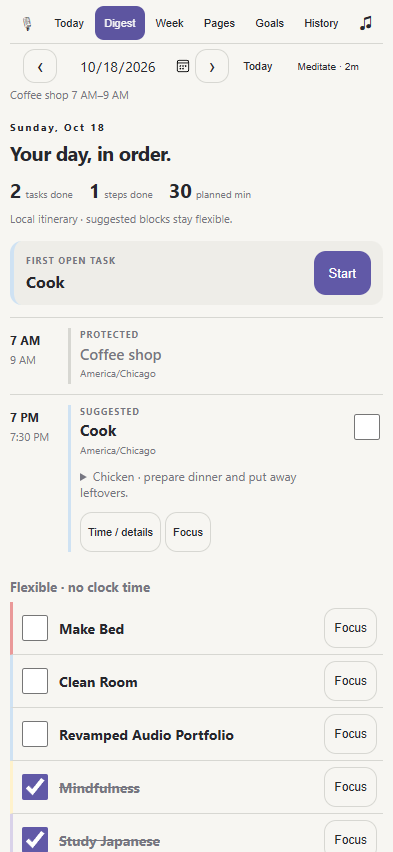
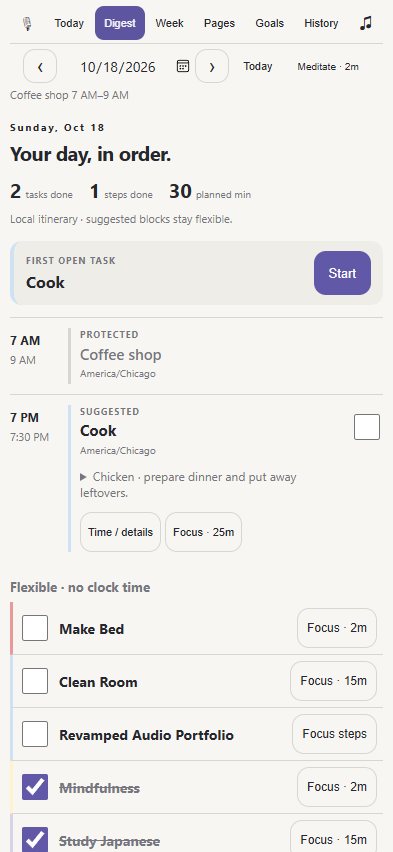
Support dated focus targets for graduated daily habits

diff --git a/src/surface.ts b/src/surface.ts
@@ -3,6 +3,7 @@ import { addRoadmap } from './roadmaps';
 import { finishFocus, cancelTimer } from './model';
 import { itinerary } from './digest';
 import { Feedback, FeedbackSettings, DEFAULT_FEEDBACK } from './feedback';
+import { focusMinutes } from './model';
 
 export interface Host {
   read():Promise<string>;
@@ -61,7 +62,7 @@ export class Surface {
     for(const tab of ['Today','Digest','Week','Pages','Goals','History'] as Tab[]){const btn=this.button(nav,tab,()=>{this.tab=tab;this.render();},tab===this.tab?'is-active':'');btn.setAttribute('aria-current',String(tab===this.tab));}const sound=this.button(nav,this.feedbackSettings.sound?'♫':'♫̸',()=>this.setFeedback({sound:!this.feedbackSettings.sound}),'cs-sound-toggle',this.feedbackSettings.sound?'Mute completion sounds':'Enable completion sounds');sound.setAttribute('aria-pressed',String(this.feedbackSettings.sound));
     const controls=this.el('div',this.root,'cs-controls');this.button(controls,'‹',()=>{this.day=addDays(this.day,-1);this.render();},'cs-icon','Previous day');
     const date=this.el('input',controls,'cs-date');date.type='date';date.value=this.day;date.setAttribute('aria-label','Selected date');date.addEventListener('change',()=>{if(date.value){this.day=date.value;this.render();}});
-    this.button(controls,'›',()=>{this.day=addDays(this.day,1);this.render();},'cs-icon','Next day');this.button(controls,'Today',()=>{this.day=localDay();this.render();},'cs-link');const meditation=b.tasks.find(t=>t.id==='mindfulness');if(meditation)this.button(controls,meditation.minutes?`Meditate · ${meditation.minutes}m`:'Meditate',()=>this.beginFocus(()=>this.host.start(meditation,this.day)),'cs-link cs-meditate','Start meditation mode');
+    this.button(controls,'›',()=>{this.day=addDays(this.day,1);this.render();},'cs-icon','Next day');this.button(controls,'Today',()=>{this.day=localDay();this.render();},'cs-link');const meditation=b.tasks.find(t=>t.id==='mindfulness');if(meditation){const minutes=focusMinutes(b,meditation,this.day);this.button(controls,minutes?`Meditate · ${minutes}m`:'Meditate',()=>this.beginFocus(()=>this.host.start(meditation,this.day)),'cs-link cs-meditate','Start meditation mode');}
     this.el('p',this.root,'cs-muted cs-sprint',`Sprint ${b.start} → ${b.end}`);
     const fixed=availabilityFor(b,this.day);if(fixed.length)this.el('p',this.root,'cs-day-availability',fixed.map(block=>`${block.label} ${clockLabel(block.start)}–${clockLabel(block.end)}`).join(' · '));
     if(this.effectsOpen)this.renderFeedbackSettings();
@@ -76,6 +77,7 @@ export class Surface {
   private async beginFocus(start:()=>Promise<void>):Promise<void>{this.returnTab=this.tab==='Digest'?'Digest':'Today';this.prepareFocusCues();if(this.board?.timer){this.focusMode=true;await this.refresh();return;}await start();this.focusMode=true;await this.refresh();}
   private async endFocus(finish:boolean):Promise<void>{const board=this.board!;const timer=board.timer;if(!timer)return;const queue=focusQueue(board,timer);const step=queue[Math.min(timer.cursor,Math.max(0,queue.length-1))];if(finish&&!step)throw new Error('This queue is empty. Cancel the timer to return to the list.');await this.host.change(text=>finish?finishFocus(text,timer.id,step.id,this.focusNotes.get(timer.id)||''):cancelTimer(text,timer.id));this.focusNotes.delete(timer.id);this.focusMode=false;this.roadmapSurface=null;this.activitySurface=null;this.tab=this.returnTab;this.page='All';this.filter='';this.day=timer.date;await this.refresh();if(finish)this.feedback.show(step.done?'Focus session saved':`${step.title} ✓`,this.colorHex(board.tasks.find(task=>task.id===step.taskId)!),step.done?'saved':'complete');}
   private colorHex(task:Task):string{return COLORS.find(color=>color.id===task.color)?.hex||'#8a59ed';}
+  private focusLabel(task:Task,day:string):string{if(taskSubtasks(this.board!,task.id,day).length)return 'Focus steps';const minutes=focusMinutes(this.board!,task,day);return minutes?`Focus · ${minutes}m`:'Focus';}
   private async checkTask(task:Task,day:string,done:boolean):Promise<void>{const wasDone=!!entryFor(this.board!,task.id,day)?.done;this.feedback.prepare();await this.host.check(task,day,done);if(done&&!wasDone)this.feedback.show(`${task.title} ✓`,this.colorHex(task));}
   private async setFeedback(patch:Partial<FeedbackSettings>):Promise<void>{const next={...this.feedbackSettings,...patch};await this.host.saveFeedback?.(next);this.feedbackSettings=next;this.render();}
   private renderFeedbackSettings():void{const panel=this.el('section',this.root,'cs-effects-settings');this.el('h3',panel,'','Feedback');for(const [key,label] of [['sound','Completion sounds'],['haptics','Haptics when supported'],['motion','Completion animations']] as const){const row=this.el('label',panel,'cs-effect-setting');const check=this.el('input',row);check.type='checkbox';check.checked=this.feedbackSettings[key];check.setAttribute('aria-label',label);check.addEventListener('change',()=>void this.run(()=>this.setFeedback({[key]:check.checked})));this.el('span',row,'',label);}this.el('p',panel,'cs-muted','Animation follows Reduce Motion. Sound and haptics depend on device support.');this.button(panel,'Test feedback',()=>{this.feedback.prepare();this.feedback.show('A little win. A little momentum.');},'cs-small');this.button(panel,'Close effects',()=>{this.effectsOpen=false;this.render();},'cs-small');}
@@ -93,10 +95,10 @@ export class Surface {
     const timeline=this.el('ol',digest,'cs-itinerary');timeline.setAttribute('aria-label','Daily itinerary');
     for(const item of plan.timed){const row=this.el('li',timeline,`cs-itinerary-item ${item.kind==='protected'?'cs-itinerary-protected':''} ${item.done?'is-done':''}`);row.setAttribute('data-itinerary-key',item.key);if(item.task)this.taskColor(item.task,row);const clock=this.el('div',row,'cs-itinerary-clock');this.el('strong',clock,'',clockLabel(item.start));this.el('span',clock,'',clockLabel(item.end));clock.title=item.timezone;
       const content=this.el('div',row,'cs-itinerary-content');this.el('p',content,'cs-eyebrow',item.kind==='protected'?'PROTECTED':item.block?.status==='scheduled'?'ON CALENDAR':item.block?.status==='needs-review'?'REVIEW TIME':'SUGGESTED');this.el('h3',content,'',item.title);this.el('p',content,'cs-itinerary-zone',item.timezone);if(item.conflict)this.el('p',content,'cs-conflict','Time overlap · adjust this block.');
-      if(item.task){const task=item.task;const entry=entryFor(board,task.id,day),steps=taskSubtasks(board,task.id,day);const detail=this.el('details',content,'cs-itinerary-detail');this.el('summary',detail,'',entry?.detail||steps.find(step=>!step.done)?.title||task.definition);this.el('p',detail,'cs-definition',task.definition);if(steps.length)this.el('p',detail,'cs-muted',`${steps.filter(step=>step.done).length}/${steps.length} roadmap steps complete`);const actions=this.el('div',content,'cs-actions');this.button(actions,'Time / details',()=>this.host.editEntry(task,day),'cs-small');this.button(actions,'Focus',()=>this.beginFocus(()=>this.host.start(task,day)),'cs-small');const label=this.el('label',row,'cs-itinerary-check');const check=this.el('input',label,'cs-check');check.type='checkbox';check.checked=item.done;check.setAttribute('aria-label',`Complete ${task.title} in digest`);check.addEventListener('change',()=>void this.run(async()=>{try{await this.checkTask(task,day,check.checked);}catch(error){check.checked=!check.checked;throw error;}}));}
+      if(item.task){const task=item.task;const entry=entryFor(board,task.id,day),steps=taskSubtasks(board,task.id,day);const detail=this.el('details',content,'cs-itinerary-detail');this.el('summary',detail,'',entry?.detail||steps.find(step=>!step.done)?.title||task.definition);this.el('p',detail,'cs-definition',task.definition);if(steps.length)this.el('p',detail,'cs-muted',`${steps.filter(step=>step.done).length}/${steps.length} roadmap steps complete`);const actions=this.el('div',content,'cs-actions');this.button(actions,'Time / details',()=>this.host.editEntry(task,day),'cs-small');this.button(actions,this.focusLabel(task,day),()=>this.beginFocus(()=>this.host.start(task,day)),'cs-small');const label=this.el('label',row,'cs-itinerary-check');const check=this.el('input',label,'cs-check');check.type='checkbox';check.checked=item.done;check.setAttribute('aria-label',`Complete ${task.title} in digest`);check.addEventListener('change',()=>void this.run(async()=>{try{await this.checkTask(task,day,check.checked);}catch(error){check.checked=!check.checked;throw error;}}));}
     }
     if(!plan.timed.length)this.el('p',digest,'cs-muted','No clock times yet. Flexible tasks stay below; set a time in Day details when useful.');
-    if(plan.flexible.length){const section=this.el('section',digest,'cs-digest-flexible');this.el('h3',section,'','Flexible · no clock time');for(const task of plan.flexible){const row=this.el('article',section,`cs-flexible-item ${entryFor(board,task.id,day)?.done?'is-done':''}`);this.taskColor(task,row);const label=this.el('label',row,'cs-itinerary-check');const check=this.el('input',label,'cs-check');check.type='checkbox';check.checked=!!entryFor(board,task.id,day)?.done;check.setAttribute('aria-label',`Complete ${task.title} in digest`);check.addEventListener('change',()=>void this.run(async()=>{try{await this.checkTask(task,day,check.checked);}catch(error){check.checked=!check.checked;throw error;}}));const title=this.el('strong',row,'',task.title);if(check.checked)title.title='Completed';this.button(row,'Focus',()=>this.beginFocus(()=>this.host.start(task,day)),'cs-small');}}
+    if(plan.flexible.length){const section=this.el('section',digest,'cs-digest-flexible');this.el('h3',section,'','Flexible · no clock time');for(const task of plan.flexible){const row=this.el('article',section,`cs-flexible-item ${entryFor(board,task.id,day)?.done?'is-done':''}`);this.taskColor(task,row);const label=this.el('label',row,'cs-itinerary-check');const check=this.el('input',label,'cs-check');check.type='checkbox';check.checked=!!entryFor(board,task.id,day)?.done;check.setAttribute('aria-label',`Complete ${task.title} in digest`);check.addEventListener('change',()=>void this.run(async()=>{try{await this.checkTask(task,day,check.checked);}catch(error){check.checked=!check.checked;throw error;}}));const title=this.el('strong',row,'',task.title);if(check.checked)title.title='Completed';this.button(row,this.focusLabel(task,day),()=>this.beginFocus(()=>this.host.start(task,day)),'cs-small');}}
     const due=board.goals.filter(goal=>goal.due===day);if(due.length){const goals=this.el('details',digest,'cs-digest-more');this.el('summary',goals,'',`Milestones today · ${due.length}`);for(const goal of due)this.button(goals,`${goal.done?'✓ ':''}${goal.title}`,()=>this.host.editGoal(goal),'cs-link');}
     const quote=this.reflectionFor(day);if(quote){const reflection=this.el('details',digest,'cs-digest-more');this.el('summary',reflection,'','Reflection');this.el('blockquote',reflection,'cs-reflection',`“${quote}”`);}
     const remaining=this.el('details',digest,'cs-digest-more');this.el('summary',remaining,'',`Available, not due · ${plan.available.length}`);for(const task of plan.available){const row=this.el('div',remaining,'cs-digest-available');this.el('span',row,'',task.title);this.button(row,'+ Plan',()=>this.host.schedule(task,day,''),'cs-small');}
@@ -121,7 +123,7 @@ export class Surface {
     if(scheduledToday)this.button(actions,'Day details',()=>this.host.editEntry(task,this.day),'cs-small');
     if(task.id==='workout'||task.id==='treadmill')this.button(actions,task.id==='workout'?'Manage workout':'Manage treadmill',()=>{this.activitySurface=task.id as 'workout'|'treadmill';this.render();},'cs-small');const increments=this.quickIncrements(task);if(increments.length){const total=this.board!.quickCounts.filter(count=>count.date===this.day&&count.taskId===task.id&&count.unit===increments[0].unit).reduce((sum,count)=>sum+count.amount,0);if(total)this.el('span',actions,'cs-quick-total',`Today: ${total} ${increments[0].unit}`);for(const increment of increments)this.button(actions,`+${increment.amount} ${increment.unit}`,async()=>{await this.host.quickCount({date:this.day,taskId:task.id,amount:increment.amount,unit:increment.unit});this.feedback.show(`+${increment.amount} ${increment.unit}`,this.colorHex(task),'increment');},'cs-small cs-quick',`Add ${increment.amount} ${increment.unit} for ${task.title}`);}
     const subs=taskSubtasks(b,task.id,this.day);if(subs.length||['project','obligation'].includes(task.kind))this.button(actions,subs.length?`Steps ${subs.filter(sub=>sub.done).length}/${subs.length}`:'Roadmap',()=>{this.roadmapSurface=task.id;this.render();},'cs-small');
-    this.button(actions,subs.length?'Focus steps':task.minutes?`Start focus · ${task.minutes}m`:'Start focus',()=>this.beginFocus(()=>this.host.start(task,this.day)),'cs-small cs-start-focus',`Start focus for ${task.title}`);
+    const minutes=focusMinutes(b,task,this.day);this.button(actions,subs.length?'Focus steps':minutes?`Start focus · ${minutes}m`:'Start focus',()=>this.beginFocus(()=>this.host.start(task,this.day)),'cs-small cs-start-focus',`Start focus for ${task.title}`);
     this.button(actions,'Edit',()=>this.host.editTask(task),'cs-small');
   }
   private renderPages():void {

diff --git a/src/model.ts b/src/model.ts
@@ -19,7 +19,8 @@ export interface QuickCount {id:string; date:string; taskId:string; amount:numbe
 export interface GroupRef {kind:'page'|'color'; value:string}
 export interface TimeBlock {date:string;taskId:string;start:string;end:string;timezone:string;status:'suggested'|'scheduled'|'needs-review';eventId:string;eventUrl:string}
 export interface Availability {id:string;label:string;days:string;start:string;end:string;timezone:string}
-export interface Board {tasks:Task[]; entries:Entry[]; goals:Goal[]; sessions:Session[]; timer:Timer|null; workoutLogs:WorkoutLog[]; quickCounts:QuickCount[]; reflections:string[]; subtasks:Subtask[]; timeBlocks:TimeBlock[]; availability:Availability[]; start:string; end:string}
+export interface FocusTarget {date:string;taskId:string;minutes:number}
+export interface Board {tasks:Task[]; entries:Entry[]; goals:Goal[]; sessions:Session[]; timer:Timer|null; workoutLogs:WorkoutLog[]; quickCounts:QuickCount[]; reflections:string[]; subtasks:Subtask[]; timeBlocks:TimeBlock[]; availability:Availability[]; focusTargets:FocusTarget[]; start:string; end:string}
 export const TASK_HEADER='| ID | Task | Color | Page | Kind | Repeat | Timer minutes | Done means |';
 export const SESSION_HEADER='| Session ID | Date | Task ID | Seconds | Note |';
 export const TIMER_HEADER='| Session ID | Task ID | Date | Started ISO | Elapsed seconds | Target seconds | Queue cursor | Step offset seconds |';
@@ -29,7 +30,8 @@ export const WORKOUT_LOG_HEADER='| ID | Date | Task ID | Duration minutes | Dist
 export const QUICK_COUNT_HEADER='| ID | Date | Task ID | Amount | Unit |';
 export const TIME_BLOCK_HEADER='| Date | Task ID | Start | End | Time zone | Status | Calendar event ID | Event URL |';
 export const AVAILABILITY_HEADER='| ID | Label | Days | Start | End | Time zone |';
-const SECTIONS=['Tasks','Schedule','Goals','Sessions','Timer'];const OPTIONAL_SECTIONS=['Reflections','Workout Log','Quick Counts','Subtasks','Time Blocks','Availability'];
+export const FOCUS_TARGET_HEADER='| Date | Task ID | Minutes |';
+const SECTIONS=['Tasks','Schedule','Goals','Sessions','Timer'];const OPTIONAL_SECTIONS=['Reflections','Workout Log','Quick Counts','Subtasks','Time Blocks','Availability','Focus Targets'];
 export function localDay(date=new Date()):string {return `${date.getFullYear()}-${String(date.getMonth()+1).padStart(2,'0')}-${String(date.getDate()).padStart(2,'0')}`;}
 export function addDays(day:string,n:number):string {const d=new Date(`${day}T12:00:00`);d.setDate(d.getDate()+n);return localDay(d);}
 export function validDay(day:string):boolean {return /^\d{4}-\d{2}-\d{2}$/.test(day)&&localDay(new Date(`${day}T12:00:00`))===day;}
@@ -82,7 +84,10 @@ export function parseBoard(text:string):Board {
   for(const block of timeBlocks){if(!validDay(block.date)||!taskIds.has(block.taskId)||!validTime(block.start)||!validTime(block.end)||block.end<=block.start||!validTimezone(block.timezone)||!['suggested','scheduled','needs-review'].includes(block.status))throw new Error('Time Blocks need a real task/date, HH:MM start/end, time zone, and valid status.');if(block.status==='scheduled'&&(!block.eventId||block.eventId==='-'))throw new Error('Scheduled blocks need a verified calendar event ID.');if(block.eventUrl!=='-'&&!/^https:\/\/(calendar\.google\.com|www\.google\.com)\//.test(block.eventUrl))throw new Error('Event URL must be a Google Calendar HTTPS link or -.');}
   if(new Set(timeBlocks.map(block=>`${block.date}/${block.taskId}`)).size!==timeBlocks.length)throw new Error('Duplicate time block for task/date.');
   const availRange=rs.get('Availability');const availability=availRange?table(lines,availRange,AVAILABILITY_HEADER).map(p=>({id:p[0],label:p[1],days:p[2],start:p[3],end:p[4],timezone:p[5]})):[];unique(availability.map(block=>block.id),'availability');for(const block of availability)if(!block.label||!validRepeat(block.days)||!validTime(block.start)||!validTime(block.end)||block.end<=block.start||!validTimezone(block.timezone))throw new Error('Availability blocks need a label, repeat days, HH:MM start/end and time zone.');
-  return {tasks,entries,goals,sessions,timer,workoutLogs,quickCounts,reflections,subtasks,timeBlocks,availability,start,end};
+  const focusRange=rs.get('Focus Targets');const focusTargets=focusRange?table(lines,focusRange,FOCUS_TARGET_HEADER).map(p=>({date:p[0],taskId:p[1],minutes:number(p[2])})):[];
+  for(const target of focusTargets)if(!validDay(target.date)||!taskIds.has(target.taskId)||target.minutes>1440)throw new Error('Focus Targets need a real date, known task ID, and 0–1440 minutes.');
+  if(new Set(focusTargets.map(target=>`${target.date}/${target.taskId}`)).size!==focusTargets.length)throw new Error('Duplicate focus target for task/date.');
+  return {tasks,entries,goals,sessions,timer,workoutLogs,quickCounts,reflections,subtasks,timeBlocks,availability,focusTargets,start,end};
 }
 export function validTime(value:string):boolean{return /^([01]\d|2[0-3]):[0-5]\d$/.test(value);}
 function validTimezone(value:string):boolean{try{new Intl.DateTimeFormat('en',{timeZone:value});return true;}catch{return false;}}
@@ -91,7 +96,8 @@ export function timeBlockFor(board:Board,taskId:string,date:string):TimeBlock|un
 export function timeBlockLabel(block:TimeBlock):string{return `${block.status==='scheduled'?'On calendar':block.status==='needs-review'?'Review time':'Suggested'} · ${clockLabel(block.start)}–${clockLabel(block.end)}`;}
 export function availabilityFor(board:Board,date:string):Availability[]{return board.availability.filter(block=>scheduled({repeat:block.days} as Task,date));}
 export function taskSubtasks(board:Board,taskId:string,date:string):Subtask[]{const detail=entryFor(board,taskId,date)?.detail.toLowerCase()||'';return board.subtasks.filter(sub=>sub.taskId===taskId&&(sub.context==='-'||detail.includes(sub.context.toLowerCase())));}
-export function focusQueue(board:Board,timer:Timer):FocusStep[]{const group=parseGroupTimerId(timer.taskId);const tasks=board.tasks.filter(task=>group?(group.kind==='page'?task.page===group.value:task.color===group.value):task.id===timer.taskId);return tasks.flatMap(task=>{const subs=taskSubtasks(board,task.id,timer.date);return subs.length?subs.map(sub=>({id:sub.id,taskId:task.id,subtask:sub,title:sub.title,definition:sub.definition,minutes:sub.minutes,done:sub.done})):[{id:task.id,taskId:task.id,title:task.title,definition:task.definition,minutes:task.minutes,done:!!entryFor(board,task.id,timer.date)?.done}];});}
+export function focusMinutes(board:Board,task:Task,date:string):number{return board.focusTargets.find(target=>target.taskId===task.id&&target.date===date)?.minutes??task.minutes;}
+export function focusQueue(board:Board,timer:Timer):FocusStep[]{const group=parseGroupTimerId(timer.taskId);const tasks=board.tasks.filter(task=>group?(group.kind==='page'?task.page===group.value:task.color===group.value):task.id===timer.taskId);return tasks.flatMap(task=>{const subs=taskSubtasks(board,task.id,timer.date);return subs.length?subs.map(sub=>({id:sub.id,taskId:task.id,subtask:sub,title:sub.title,definition:sub.definition,minutes:sub.minutes,done:sub.done})):[{id:task.id,taskId:task.id,title:task.title,definition:task.definition,minutes:group?focusMinutes(board,task,timer.date):timer.target/60,done:!!entryFor(board,task.id,timer.date)?.done}];});}
 export function dailyWins(board:Board,date:string):{tasks:number;subtasks:number}{return {tasks:board.entries.filter(entry=>entry.date===date&&entry.done).length,subtasks:board.subtasks.filter(sub=>sub.done&&sub.completed===date).length};}
 export function validRepeat(value:string):boolean {return value==='-'||value==='daily'||/^(mon|tue|wed|thu|fri|sat|sun)(,(mon|tue|wed|thu|fri|sat|sun))*$/.test(value);}
 export function scheduled(task:Task,day:string):boolean {return task.repeat==='daily'||task.repeat.split(',').includes(['sun','mon','tue','wed','thu','fri','sat'][new Date(`${day}T12:00:00`).getDay()]);}
@@ -147,7 +153,7 @@ export function writeTimer(text:string,timer:Timer|null):string{
   for(let i=indices.length-1;i>=0;i--)lines.splice(indices[i],1);const rows=[TIMER_HEADER,'| --- | --- | --- | --- | --- | --- | --- | --- |'];if(row)rows.push(row);lines.splice(indices[0],0,...rows);const next=lines.join(text.includes('\r\n')?'\r\n':'\n');parseBoard(next);return next;
 }
 export function startTimer(text:string,taskId:string,date:string,now=Date.now()):string{
-  const board=parseBoard(text);if(board.timer)throw new Error('A timer is already active. Open its focus screen to resume or finish it.');const task=board.tasks.find(t=>t.id===taskId);if(!task||!validDay(date))throw new Error('Task or date not found.');const scheduledText=entryFor(board,taskId,date)?text:setEntry(text,date,taskId,false);return writeTimer(scheduledText,{id:`s-${now}-${Math.random().toString(36).slice(2,8)}`,taskId,date,started:new Date(now).toISOString(),elapsed:0,target:task.minutes*60,cursor:0,stepOffset:0});
+  const board=parseBoard(text);if(board.timer)throw new Error('A timer is already active. Open its focus screen to resume or finish it.');const task=board.tasks.find(t=>t.id===taskId);if(!task||!validDay(date))throw new Error('Task or date not found.');const scheduledText=entryFor(board,taskId,date)?text:setEntry(text,date,taskId,false);return writeTimer(scheduledText,{id:`s-${now}-${Math.random().toString(36).slice(2,8)}`,taskId,date,started:new Date(now).toISOString(),elapsed:0,target:focusMinutes(board,task,date)*60,cursor:0,stepOffset:0});
 }
 export function startGroupTimer(text:string,group:GroupRef,date:string,now=Date.now()):string{
   const board=parseBoard(text);if(board.timer)throw new Error('A timer is already active. Open its focus screen to resume or save it.');if(!validDay(date)||!group.value.trim())throw new Error('A group timer needs a valid date and group.');const tasks=board.tasks.filter(task=>group.kind==='page'?task.page===group.value:task.color===group.value);if(!tasks.length)throw new Error('This focus group has no tasks.');if(tasks.some(task=>!entryFor(board,task.id,date)))throw new Error('Schedule every task in this group before starting routine focus.');return writeTimer(text,{id:`s-${now}-${Math.random().toString(36).slice(2,8)}`,taskId:groupTimerId(group),date,started:new Date(now).toISOString(),elapsed:0,target:0,cursor:0,stepOffset:0});

diff --git a/main.js b/main.js
@@ -44,8 +44,9 @@ var WORKOUT_LOG_HEADER = "| ID | Date | Task ID | Duration minutes | Distance mi
 var QUICK_COUNT_HEADER = "| ID | Date | Task ID | Amount | Unit |";
 var TIME_BLOCK_HEADER = "| Date | Task ID | Start | End | Time zone | Status | Calendar event ID | Event URL |";
 var AVAILABILITY_HEADER = "| ID | Label | Days | Start | End | Time zone |";
+var FOCUS_TARGET_HEADER = "| Date | Task ID | Minutes |";
 var SECTIONS = ["Tasks", "Schedule", "Goals", "Sessions", "Timer"];
-var OPTIONAL_SECTIONS = ["Reflections", "Workout Log", "Quick Counts", "Subtasks", "Time Blocks", "Availability"];
+var OPTIONAL_SECTIONS = ["Reflections", "Workout Log", "Quick Counts", "Subtasks", "Time Blocks", "Availability", "Focus Targets"];
 function localDay(date = /* @__PURE__ */ new Date()) {
   return `${date.getFullYear()}-${String(date.getMonth() + 1).padStart(2, "0")}-${String(date.getDate()).padStart(2, "0")}`;
 }
@@ -227,7 +228,11 @@ function parseBoard(text) {
   const availability = availRange ? table(lines, availRange, AVAILABILITY_HEADER).map((p) => ({ id: p[0], label: p[1], days: p[2], start: p[3], end: p[4], timezone: p[5] })) : [];
   unique(availability.map((block) => block.id), "availability");
   for (const block of availability) if (!block.label || !validRepeat(block.days) || !validTime(block.start) || !validTime(block.end) || block.end <= block.start || !validTimezone(block.timezone)) throw new Error("Availability blocks need a label, repeat days, HH:MM start/end and time zone.");
-  return { tasks, entries, goals, sessions, timer, workoutLogs, quickCounts, reflections, subtasks, timeBlocks, availability, start, end };
+  const focusRange = rs.get("Focus Targets");
+  const focusTargets = focusRange ? table(lines, focusRange, FOCUS_TARGET_HEADER).map((p) => ({ date: p[0], taskId: p[1], minutes: number(p[2]) })) : [];
+  for (const target of focusTargets) if (!validDay(target.date) || !taskIds.has(target.taskId) || target.minutes > 1440) throw new Error("Focus Targets need a real date, known task ID, and 0\u20131440 minutes.");
+  if (new Set(focusTargets.map((target) => `${target.date}/${target.taskId}`)).size !== focusTargets.length) throw new Error("Duplicate focus target for task/date.");
+  return { tasks, entries, goals, sessions, timer, workoutLogs, quickCounts, reflections, subtasks, timeBlocks, availability, focusTargets, start, end };
 }
 function validTime(value) {
   return /^([01]\d|2[0-3]):[0-5]\d$/.test(value);
@@ -257,12 +262,15 @@ function taskSubtasks(board, taskId, date) {
   const detail = entryFor(board, taskId, date)?.detail.toLowerCase() || "";
   return board.subtasks.filter((sub) => sub.taskId === taskId && (sub.context === "-" || detail.includes(sub.context.toLowerCase())));
 }
+function focusMinutes(board, task, date) {
+  return board.focusTargets.find((target) => target.taskId === task.id && target.date === date)?.minutes ?? task.minutes;
+}
 function focusQueue(board, timer) {
   const group = parseGroupTimerId(timer.taskId);
   const tasks = board.tasks.filter((task) => group ? group.kind === "page" ? task.page === group.value : task.color === group.value : task.id === timer.taskId);
   return tasks.flatMap((task) => {
     const subs = taskSubtasks(board, task.id, timer.date);
-    return subs.length ? subs.map((sub) => ({ id: sub.id, taskId: task.id, subtask: sub, title: sub.title, definition: sub.definition, minutes: sub.minutes, done: sub.done })) : [{ id: task.id, taskId: task.id, title: task.title, definition: task.definition, minutes: task.minutes, done: !!entryFor(board, task.id, timer.date)?.done }];
+    return subs.length ? subs.map((sub) => ({ id: sub.id, taskId: task.id, subtask: sub, title: sub.title, definition: sub.definition, minutes: sub.minutes, done: sub.done })) : [{ id: task.id, taskId: task.id, title: task.title, definition: task.definition, minutes: group ? focusMinutes(board, task, timer.date) : timer.target / 60, done: !!entryFor(board, task.id, timer.date)?.done }];
   });
 }
 function dailyWins(board, date) {
@@ -447,7 +455,7 @@ function startTimer(text, taskId, date, now = Date.now()) {
   const task = board.tasks.find((t) => t.id === taskId);
   if (!task || !validDay(date)) throw new Error("Task or date not found.");
   const scheduledText = entryFor(board, taskId, date) ? text : setEntry(text, date, taskId, false);
-  return writeTimer(scheduledText, { id: `s-${now}-${Math.random().toString(36).slice(2, 8)}`, taskId, date, started: new Date(now).toISOString(), elapsed: 0, target: task.minutes * 60, cursor: 0, stepOffset: 0 });
+  return writeTimer(scheduledText, { id: `s-${now}-${Math.random().toString(36).slice(2, 8)}`, taskId, date, started: new Date(now).toISOString(), elapsed: 0, target: focusMinutes(board, task, date) * 60, cursor: 0, stepOffset: 0 });
 }
 function startGroupTimer(text, group, date, now = Date.now()) {
   const board = parseBoard(text);
@@ -966,7 +974,10 @@ var Surface = class {
       this.render();
     }, "cs-link");
     const meditation = b.tasks.find((t) => t.id === "mindfulness");
-    if (meditation) this.button(controls, meditation.minutes ? `Meditate \xB7 ${meditation.minutes}m` : "Meditate", () => this.beginFocus(() => this.host.start(meditation, this.day)), "cs-link cs-meditate", "Start meditation mode");
+    if (meditation) {
+      const minutes = focusMinutes(b, meditation, this.day);
+      this.button(controls, minutes ? `Meditate \xB7 ${minutes}m` : "Meditate", () => this.beginFocus(() => this.host.start(meditation, this.day)), "cs-link cs-meditate", "Start meditation mode");
+    }
     this.el("p", this.root, "cs-muted cs-sprint", `Sprint ${b.start} \u2192 ${b.end}`);
     const fixed = availabilityFor(b, this.day);
     if (fixed.length) this.el("p", this.root, "cs-day-availability", fixed.map((block) => `${block.label} ${clockLabel(block.start)}\u2013${clockLabel(block.end)}`).join(" \xB7 "));
@@ -1030,6 +1041,11 @@ var Surface = class {
   }
   colorHex(task) {
     return COLORS.find((color) => color.id === task.color)?.hex || "#8a59ed";
+  }
+  focusLabel(task, day) {
+    if (taskSubtasks(this.board, task.id, day).length) return "Focus steps";
+    const minutes = focusMinutes(this.board, task, day);
+    return minutes ? `Focus \xB7 ${minutes}m` : "Focus";
   }
   async checkTask(task, day, done) {
     const wasDone = !!entryFor(this.board, task.id, day)?.done;
@@ -1130,7 +1146,7 @@ var Surface = class {
         if (steps.length) this.el("p", detail, "cs-muted", `${steps.filter((step) => step.done).length}/${steps.length} roadmap steps complete`);
         const actions = this.el("div", content, "cs-actions");
         this.button(actions, "Time / details", () => this.host.editEntry(task, day), "cs-small");
-        this.button(actions, "Focus", () => this.beginFocus(() => this.host.start(task, day)), "cs-small");
+        this.button(actions, this.focusLabel(task, day), () => this.beginFocus(() => this.host.start(task, day)), "cs-small");
         const label = this.el("label", row, "cs-itinerary-check");
         const check = this.el("input", label, "cs-check");
         check.type = "checkbox";
@@ -1168,7 +1184,7 @@ var Surface = class {
         }));
         const title = this.el("strong", row, "", task.title);
         if (check.checked) title.title = "Completed";
-        this.button(row, "Focus", () => this.beginFocus(() => this.host.start(task, day)), "cs-small");
+        this.button(row, this.focusLabel(task, day), () => this.beginFocus(() => this.host.start(task, day)), "cs-small");
       }
     }
     const due = board.goals.filter((goal) => goal.due === day);
@@ -1298,7 +1314,8 @@ var Surface = class {
       this.roadmapSurface = task.id;
       this.render();
     }, "cs-small");
-    this.button(actions, subs.length ? "Focus steps" : task.minutes ? `Start focus \xB7 ${task.minutes}m` : "Start focus", () => this.beginFocus(() => this.host.start(task, this.day)), "cs-small cs-start-focus", `Start focus for ${task.title}`);
+    const minutes = focusMinutes(b, task, this.day);
+    this.button(actions, subs.length ? "Focus steps" : minutes ? `Start focus \xB7 ${minutes}m` : "Start focus", () => this.beginFocus(() => this.host.start(task, this.day)), "cs-small cs-start-focus", `Start focus for ${task.title}`);
     this.button(actions, "Edit", () => this.host.editTask(task), "cs-small");
   }
   renderPages() {

diff --git a/tests/plugin.test.ts b/tests/plugin.test.ts
@@ -62,6 +62,13 @@ async function harness(initial=starter(),initialFiles:Record<string,string>={}) 
   const plugin:any=new module.exports.default(app,{});await plugin.onload();const view:any=app.workspace.factory(leaf);leaf.view=view;await view.onOpen();
   return {dom,document,plugin,view,commands,notices,modals,opened,files,renderedMarkdown,get componentsUnloaded(){return componentsUnloaded;},get text(){return md;},get writes(){return writes;},async external(fn:(s:string)=>string){md=fn(md);for(const cb of events.get('modify')||[])cb(file);await settle();},async openFile(path:string){const target=files.get(path)?.file;assert.ok(target);await leaf.openFile(target);await settle();},async embed(source:string,sourcePath:string){const el=document.createElement('article');document.body.append(el);let child:any;blocks.get('color-sprint')(source,el,{sourcePath,addChild:(c:any)=>{child=c;children.push(c);c.onload();}});await settle();return {el,child};},async close(){for(const modal of [...modals])modal.close();for(const child of children)child.unload();await view.onClose();plugin.onunload();for(const cleanup of plugin.cleanups)cleanup();dom.window.close();},button(label:string,within:any=view.contentEl){const b=[...within.querySelectorAll('button')].find((e:any)=>e.textContent===label);assert.ok(b,`Button not found: ${label}`);return b as HTMLButtonElement;}};
 }
+test('date-specific durations reach Today, Digest, meditation and the running countdown',async()=>{
+  let md=starter('2026-10-18')+'\n## Focus Targets\n\n| Date | Task ID | Minutes |\n| --- | --- | --- |\n| 2026-10-28 | japanese | 25 |\n| 2026-10-28 | mindfulness | 15 |\n';md=setEntry(md,'2026-10-28','japanese',false);const h=await harness(md);try{
+    await h.view.setState({date:'2026-10-28',tab:'Today'},{});await settle();assert.equal(h.button('Start focus · 25m').getAttribute('aria-label'),'Start focus for Study Japanese');assert.equal(h.button('Meditate · 15m').getAttribute('aria-label'),'Start meditation mode');
+    h.button('Digest').click();await settle();h.button('Focus · 25m').click();await settle();assert.equal(parseBoard(h.text).timer!.target,1500);assert.match(h.document.querySelector('.cs-time')!.textContent!,/^2[45]:/);h.button('Cancel').click();await settle();assert.ok(h.document.querySelector('.cs-digest'));h.button('Meditate · 15m').click();await settle();assert.equal(parseBoard(h.text).timer!.target,900);assert.match(h.document.querySelector('.cs-time')!.textContent!,/^1[45]:/);assert.equal(parseBoard(h.text).sessions.length,0);
+  }finally{await h.close();}
+});
+
 test('voice reflection shortcut reads existing audio Markdown without changing notes or recording',async()=>{
   const day=localDay(),path=`Sync/Reflection/Voice/${day}.md`,note='# My reflection\n\n![[Private recording.m4a]]\n\nKeep my words.';const h=await harness(starter(),{[path]:note});try{assert.ok(h.commands.has('voice-reflection'));h.button('🎙').click();await settle();const modal=h.modals[0];assert.equal(h.button('Record in journal',modal.contentEl).disabled,true);assert.match(modal.contentEl.textContent,/not enabled on this device/);assert.deepEqual(h.renderedMarkdown,[{markdown:note,path}]);assert.equal(h.files.get(path)!.text,note);assert.equal(h.writes,0);modal.close();assert.equal(h.componentsUnloaded,1);assert.equal(h.document.querySelectorAll('.cs-voice').length,0);
   }finally{await h.close();}
@@ -86,7 +93,7 @@ test('digest reads the Markdown itinerary and keeps completed tasks after a save
   const h=await harness(md);try{assert.ok(h.commands.has('open-digest'));h.button('Digest').click();await settle();assert.equal(h.writes,0);assert.match(h.document.querySelector('.cs-itinerary')!.textContent!,/7 PM/);assert.match(h.document.querySelector('.cs-itinerary')!.textContent!,/SUGGESTED/);
     const done=h.document.querySelector('[aria-label="Complete Study Japanese in digest"]') as HTMLInputElement;assert.equal(done.checked,true);
     (h.document.querySelector('[aria-label="Complete Cook in digest"]') as HTMLInputElement).click();await settle();assert.equal(parseBoard(h.text).entries.find(e=>e.taskId==='cook')!.done,true);assert.match(h.document.querySelector('.cs-feedback-toast')!.textContent!,/Cook/);assert.equal(h.document.querySelectorAll('.cs-itinerary-item.is-done').length,1);
-    const flexible=h.document.querySelector('.cs-flexible-item:not(.is-done)')!;h.button('Focus',flexible).click();await settle();h.button('Finish').click();await settle();assert.ok(h.document.querySelector('.cs-digest'));assert.equal(parseBoard(h.text).entries.find(e=>e.taskId==='make-bed')!.done,true);assert.equal(h.document.querySelectorAll('.cs-flexible-item.is-done').length,2);
+    const flexible=h.document.querySelector('.cs-flexible-item:not(.is-done)')!;h.button('Focus · 2m',flexible).click();await settle();h.button('Finish').click();await settle();assert.ok(h.document.querySelector('.cs-digest'));assert.equal(parseBoard(h.text).entries.find(e=>e.taskId==='make-bed')!.done,true);assert.equal(h.document.querySelectorAll('.cs-flexible-item.is-done').length,2);
   }finally{await h.close();}
 });
 

diff --git a/tests/focus-targets.test.ts b/tests/focus-targets.test.ts
@@ -1,0 +1,26 @@
+import { test } from 'node:test';
+import assert from 'node:assert/strict';
+import { starter } from '../src/starter';
+import { parseBoard, focusMinutes, focusQueue, startTimer, startGroupTimer, scheduleGroup, setEntry, pauseTimer, refreshTimer, FOCUS_TARGET_HEADER, planned } from '../src/model';
+import { addRoadmap } from '../src/roadmaps';
+
+const targets=(rows:string)=>`\n## Focus Targets\n\n${FOCUS_TARGET_HEADER}\n| --- | --- | --- |\n${rows}\n`;
+test('dated focus targets override only their day and do not schedule or complete tasks',()=>{
+  const text=starter('2026-10-18')+targets('| 2026-10-18 | japanese | 10 |\n| 2026-10-21 | japanese | 15 |\n| 2026-10-24 | japanese | 20 |\n| 2026-10-28 | japanese | 25 |');const b=parseBoard(text),task=b.tasks.find(t=>t.id==='japanese')!;
+  for(const [day,min] of [['2026-10-18',10],['2026-10-21',15],['2026-10-24',20],['2026-10-28',25]] as const){assert.equal(focusMinutes(b,task,day),min);const running=parseBoard(startTimer(text,task.id,day));assert.equal(running.timer!.target,min*60);assert.equal(focusQueue(running,running.timer!)[0].minutes,min);assert.equal(planned(b,task,day),false);}
+  assert.equal(focusMinutes(b,task,'2026-10-29'),15);assert.equal(b.entries.length,0);assert.equal(b.sessions.length,0);assert.equal(b.timer,null);
+});
+
+test('group queue uses its recorded date and preserves explicit roadmap step times',()=>{
+  const day='2026-10-28';let md=starter('2026-10-18')+targets(`| ${day} | japanese | 25 |\n| ${day} | lyrics | 40 |`);md=scheduleGroup(md,{kind:'color',value:'purple'},day);md=startGroupTimer(md,{kind:'color',value:'purple'},day);let b=parseBoard(md);assert.equal(focusQueue(b,b.timer!).find(step=>step.taskId==='japanese')!.minutes,25);assert.equal(focusQueue(b,b.timer!).find(step=>step.taskId==='lyrics')!.minutes,40);
+  md=addRoadmap(md,'japanese');b=parseBoard(md);assert.deepEqual(focusQueue(b,b.timer!).filter(step=>step.taskId==='japanese').map(step=>step.minutes),[5,15,5]);
+});
+
+test('a standalone timer captures its target and does not jump after editing future plans',()=>{
+  const now=Date.parse('2026-10-18T14:00:00Z');let md=startTimer(starter('2026-10-18')+targets('| 2026-10-18 | japanese | 10 |'),'japanese','2026-10-18',now);const timer=parseBoard(md).timer!;md=md.replace('| japanese | 10 |','| japanese | 30 |');md=pauseTimer(md,timer.id,now+60000);md=refreshTimer(md,timer.id,now+70000);const b=parseBoard(md);assert.equal(focusMinutes(b,b.tasks.find(t=>t.id==='japanese')!,'2026-10-18'),30);assert.equal(b.timer!.target,600);assert.equal(focusQueue(b,b.timer!)[0].minutes,10);
+});
+
+test('dated targets reject malformed, ambiguous or unknown data, preserve Markdown on checkbox writes and allow explicit stopwatch targets',()=>{
+  const base=starter('2026-10-18');for(const row of ['| 2026-02-30 | japanese | 10 |','| 2026-10-18 | unknown | 10 |','| 2026-10-18 | japanese | -5 |','| 2026-10-18 | japanese | 1441 |','| 2026-10-18 | japanese | ten |','| 2026-10-18 | japanese | 10 |\n| 2026-10-18 | japanese | 20 |'])assert.throws(()=>parseBoard(base+targets(row)));
+  const section=targets('| 2026-10-18 | japanese | 0 |');const md=setEntry(base+section,'2026-10-18','japanese',true,'Original evidence');assert.ok(md.endsWith(section));const b=parseBoard(startTimer(md,'japanese','2026-10-18'));assert.equal(b.timer!.target,0);assert.equal(focusQueue(b,b.timer!)[0].minutes,0);assert.equal(parseBoard(base).focusTargets.length,0);
+});

diff --git a/FORMAT.md b/FORMAT.md
@@ -31,6 +31,27 @@ Dates are local calendar dates. Recurrence applies only within this range. Expli
 
 Escape literal pipes as `\|`; backslashes as `\\`. Keep each table row on one physical line. The UI escapes entered text automatically. The UI uses text content, so Markdown/HTML in labels is displayed as text.
 
+## Focus Targets (optional)
+
+Use dated focus durations to increase a habit gradually without making a separate task for every day:
+
+```md
+## Focus Targets
+
+| Date | Task ID | Minutes |
+| --- | --- | --- |
+| 2026-10-18 | japanese | 10 |
+| 2026-10-21 | japanese | 15 |
+| 2026-10-24 | japanese | 20 |
+| 2026-10-28 | japanese | 25 |
+```
+
+Each row overrides that task's **Timer minutes for that exact date only**. It is not an effective-from rule: fill each intended date, or use the task-row default where a date has no override. Minutes are 0–1440; 0 is an open stopwatch. The date must be valid, the task ID must exist, and date/task pairs must be unique. An omitted section preserves previous behavior.
+
+Cards, the meditation shortcut, Digest focus buttons, and group focus use the date's resolved duration. Starting a solo timer saves that target so the running countdown does not jump if the plan is subsequently edited; a new session picks up the new value. Explicit roadmap subtask minutes remain authoritative and are not scaled by a parent target. A target row does not schedule the task, reserve calendar time, record evidence, or complete anything. Task Repeat / Schedule still control whether the task is due. Edit this optional table directly in Markdown; the task edit form changes the fallback duration, not dated rows.
+
+These are planning targets, not proof of work or mandatory progression rules. Preserve actual completion and log a shorter/partial attempt honestly rather than marking a minimum met when it was not. The plugin does not lock manual checkboxes or infer completion from elapsed time.
+
 ## Schedule / daily results
 
 ```md

diff --git a/README.md b/README.md
@@ -33,6 +33,7 @@ For a manual installation, download `manifest.json`, `main.js`, and `styles.css`
 - **Training surfaces:** `Workout` and `Treadmill` each open their own minimal data-entry screen. They append real duration, distance, sets/load, and notes to `## Workout Log`; this stays separate from plan checkboxes and focus sessions.
 - **Quick increments:** appropriate cards add real, Markdown-backed counts in one tap: `+1` / `+5 reps` for Pushups and Dips, seconds for Plank, and minutes for Treadmill. Quick counts never complete a task or count as a whole workout.
 - **Direct Markdown editing:** checkboxes, task definitions, colors, pages, schedules, recurring weekdays, goals, and timer records remain readable text. File changes refresh the interface.
+- **Graduated daily focus targets:** an optional `## Focus Targets` Markdown table can give one habit different durations on different dates. Cards, Digest focus buttons, meditation, and group queues resolve that day's target. A solo timer keeps its captured target once started. Roadmap step times stay independent. See [the format guide](FORMAT.md#focus-targets-optional); no automatic ramp, forced completion, or calendar booking is imposed.
 
 The six colors match the source palette exactly: pink `#ea9999`, blue `#cfe2f3`, yellow `#fff2cc`, purple `#d9d2e9`, orange `#fce5cd`, and salmon `#e6b8af`. Pages do not merge or reinterpret these color groups.
 
